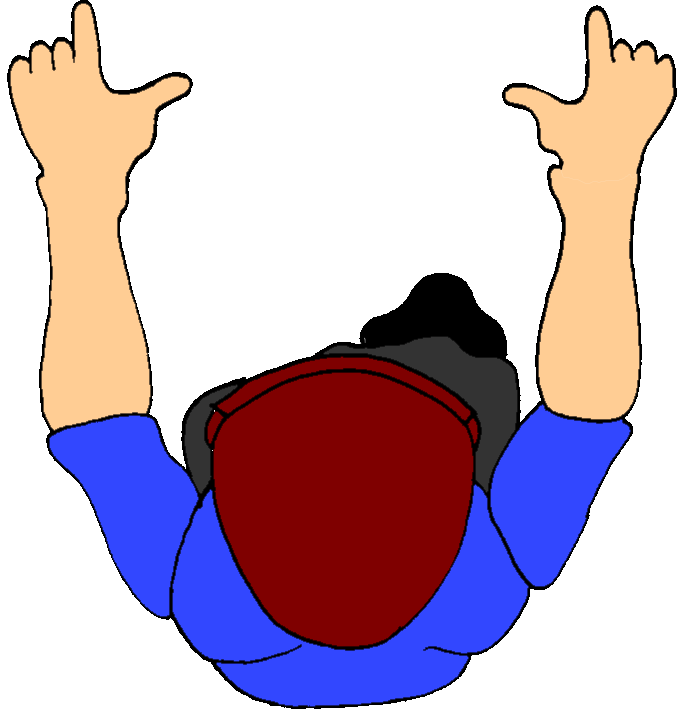
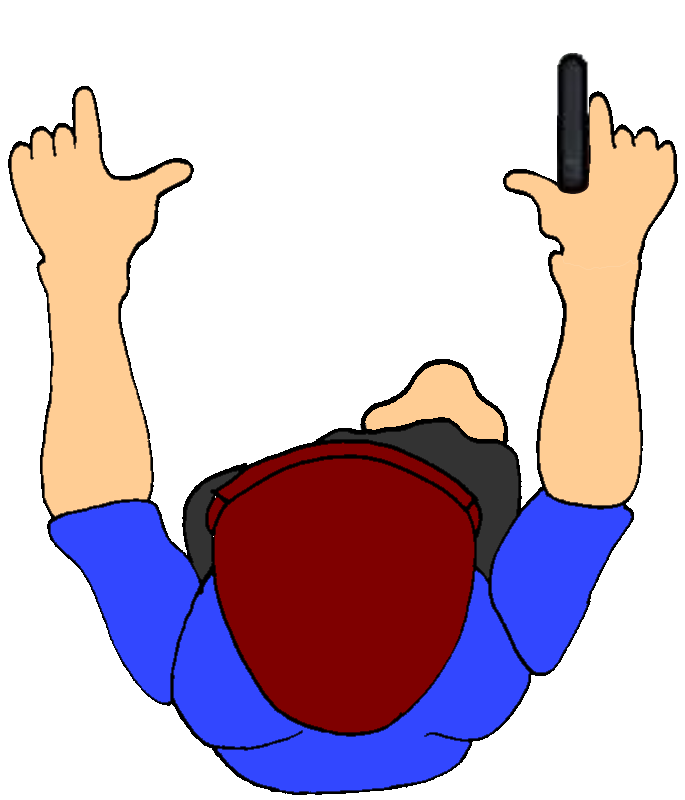
Got bullet intersections working, zombies will DIE

Changed region(s): [[0.0, 0.0, 1.0, 0.986], [0.3991, 0.8936, 0.7368, 1.0], [0.0307, 0.4314, 0.0921, 0.5546]]

diff --git a/src/me/zombies/Main.java b/src/me/zombies/Main.java
@@ -106,21 +106,6 @@ public class Main implements KeyListener, MouseListener, MouseMotionListener {
 
 	}
 
-	private void guns() {
-		
-		int ammo = fire;
-		
-		if(fire>0) {
-			
-			if(ammo<pistol.ammo) {
-				bullets.add(new Bullet(Player));
-				ammo--;
-			} 
-			
-		}
-
-	}
-
 	@SuppressWarnings("serial")
 	private class DrawingPanel extends JPanel {
 		DrawingPanel() {
@@ -140,15 +125,7 @@ public class Main implements KeyListener, MouseListener, MouseMotionListener {
 			
 			drawPlayer(g, g2);
 			
-			moveZombies();
-			moveBullets();
 			addBullets(g);
-
-		//Draw Zombies
-			for (Zombies z: zombies) {
-				System.out.println(z);
-				z.paint(g, g2);
-			}
 			
 			drawZombies(g, g2);
 			
@@ -248,17 +225,13 @@ public class Main implements KeyListener, MouseListener, MouseMotionListener {
 		g.drawString(HPString, (int)(WIN/3.6), WIN/16);
 	}
 
+//Draw the Zombies
 	void drawZombies(Graphics g, Graphics2D g2) {
 		
 		for (Zombies z: zombies) {
-			
 			g.drawImage(z.Img, z.x, z.y, z.ZombiesWidth, z.ZombiesWidth, drPanel);	
-			
+			z.drawZombiesHealthBar(g, g2);	
 		}
-		
-		
-
-		
 		
 	}
 	
@@ -445,10 +418,15 @@ public class Main implements KeyListener, MouseListener, MouseMotionListener {
 	// ------------------------------------------------------
 			Player.PercentRatio = ((Player.HP*100)/Player.maxHP);
 			Player.PercentHP = Player.PercentRatio/100;
+			
+			for (Zombies z: zombies) {
+				z.PercentRatio = ((z.HP*100)/z.maxHP);
+				z.PercentHP = z.PercentRatio/100;
+			}
 				
 			movePlayer();
 			
-//			moveZombies();
+			moveZombies();
 			
 			moveBullets();
 
@@ -475,21 +453,21 @@ public class Main implements KeyListener, MouseListener, MouseMotionListener {
 			
 		//Bullet Hit Zombie Check
 			for (Zombies z: zombies) {
-				for (Bullet b: bullets) {
+				for (int j=0; j<bullets.size(); j++) {
 					
+					Bullet b = bullets.get(j);
 					if (z.intersects(b)) {
-						
-//						z.HP-=5;
-//						bullets.remove(b);
-						
-						
+						z.HP-=5;
+						bullets.remove(b);
 					}
+					
 				}
 				
 			}
 
 		//Zombie Death Check
-			for (Zombies z: zombies) {
+			for (int i=0; i<zombies.size(); i++) {
+				Zombies z = zombies.get(i);
 				if (z.HP<=0) {
 					zombies.remove(z);
 					ZombiesCounter--;

diff --git a/src/me/zombies/Zombies.java b/src/me/zombies/Zombies.java
@@ -140,14 +140,7 @@ class Zombies extends Rectangle{
 		this.PercentHP = PercentRatio/100;
 	}
 
-	void paint(Graphics g, Graphics2D g2) {
-		
-		g.fillOval(x, y, ZombiesWidth, ZombiesWidth);
-
-		drawZombiesHealthBar(g, g2, type);
-	}
-
-	void drawZombiesHealthBar (Graphics g, Graphics2D g2, int type) {
+	void drawZombiesHealthBar (Graphics g, Graphics2D g2) {
 		g2.setStroke(ZombiesHPBarStroke);
 
 		int BarWidth = Main.WIN/10; 	// <---- Constant Ratios based off of the Screen Width
